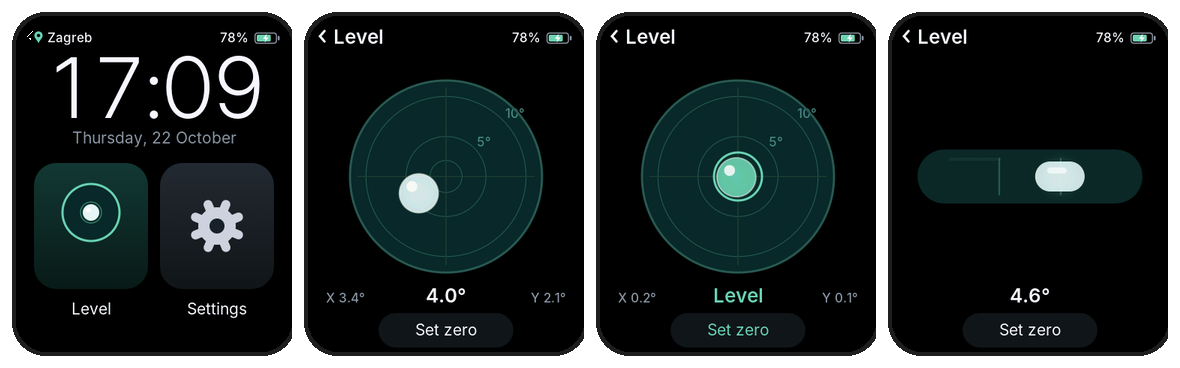
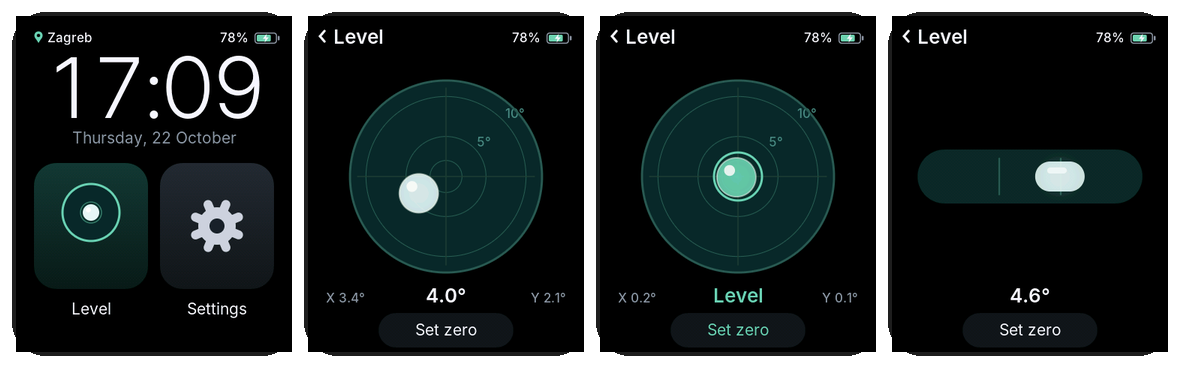
Spirit level: drop the glass highlight on the tube
On the AMOLED the faint highlight line over the left half of the tube
looked like a stray line rather than a reflection. The two centre marks
stay. README picture refreshed.

Claude-Session: https://claude.ai/code/session_01HRQUSF8E94c6Vyr6E4ava7

diff --git a/src/apps/level/LevelUi.h b/src/apps/level/LevelUi.h
@@ -84,12 +84,6 @@ inline void drawLevelStatic(Canvas &c, const UiState &st) {
   } else {
     const Rect &t = l.vertical ? kTubeV : kTubeH;
     c.roundRect(t.x, t.y, t.w, t.h, (l.vertical ? t.w : t.h) / 2.0f, kLevelGlass);
-    // Glass highlight along the tube.
-    if (l.vertical) {
-      c.capsule(t.x + 13, t.y + 44, t.x + 13, t.y + 110, 2, rgb(0xFFFFFF), 0.07f);
-    } else {
-      c.capsule(t.x + 44, t.y + 13, t.x + 110, t.y + 13, 2, rgb(0xFFFFFF), 0.07f);
-    }
     // Marks either side of the centre: the bubble fits between them when level.
     const float cx = t.x + t.w / 2.0f, cy = t.y + t.h / 2.0f;
     const float gap = kTubeBubbleLen / 2 + 8;
